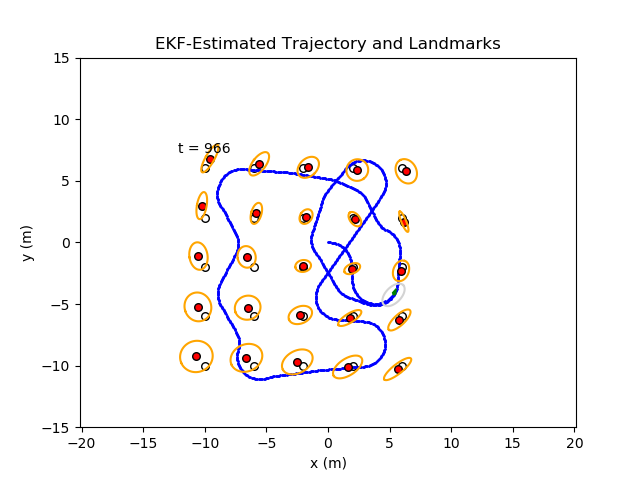
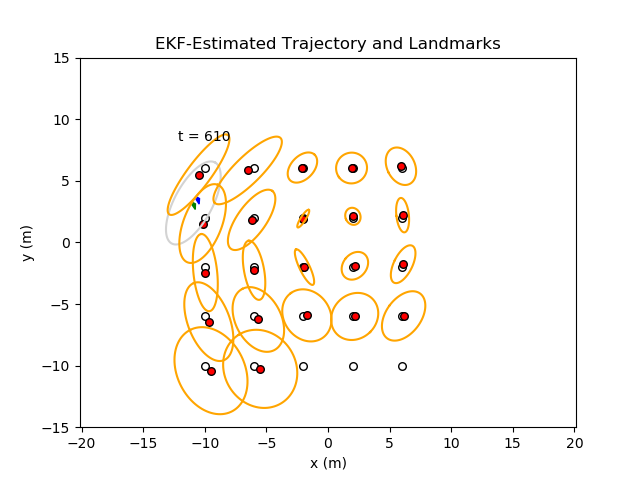
Add timestep to EKFState and new PFState messages. Can now show accurate true current veh pose on plots.

Changed region(s): [[0.25, 0.25, 0.6875, 0.875], [0.4062, 0.8438, 0.4375, 0.875], [0.2812, 0.8125, 0.3125, 0.8438]]

diff --git a/ekf_ws/src/data_pkg/src/plotting_node.py b/ekf_ws/src/data_pkg/src/plotting_node.py
@@ -5,6 +5,7 @@ import rospy
 import rospkg
 from std_msgs.msg import Float32MultiArray
 from ekf_pkg.msg import EKFState
+from pf_pkg.msg import PFState
 from matplotlib import pyplot as plt
 import numpy as np
 import atexit
@@ -17,18 +18,10 @@ def eigsorted(cov):
 
 ############ GLOBAL VARIABLES ###################
 params = {}
-# state data from the EKF to use for plotting.
-# position/hdg for all times.
-veh_x = []; veh_y = []; veh_th = []
-# current estimate for all landmark positions.
-lm_x = []; lm_y = []
-# ground truth veh pose.
+# store all plots objects we want to be able to remove later.
+plots = {"lm_cov_est" : {}}
+# ground truth.
 true_traj = None; true_map = None
-timestep_num = 1; time_text = None; time_text_position = None
-lm_pts = None; veh_pts = None; ell_pts = None; veh_true = None
-lm_cov = {}
-# set of PF particle plots.
-particle_plots = None; true_pt = None
 # output filename prefix.
 fname = ""
 #################################################
@@ -88,99 +81,92 @@ def cov_to_ellipse(P_v):
 
 def update_plot(filter:str, msg):
     # draw everything for this timestep.
-    global veh_x, veh_y, veh_th, lm_x, lm_y, lm_pts, veh_pts, ell_pts, veh_true, true_map, true_traj, timestep_num, time_text, time_text_position, lm_cov, particle_plots, true_pt
+    global plots, pos_time_display, true_map, true_traj
     
     #################### TRUE MAP #######################
     if true_map is not None:
         plt.scatter(true_map[0], true_map[1], s=30, color="white", edgecolors="black")
         # make sure the time text will be on screen but not blocking a lm.
-        time_text_position = (min(true_map[0]), max(true_map[1])+2)
+        pos_time_display = (min(true_map[0]), max(true_map[1])+2)
         # this should only run once to avoid wasting time.
         true_map = None
 
     ################ TRUE TRAJECTORY #####################
     if params["SHOW_TRUE_TRAJ"] and true_traj is not None:
-        plt.scatter(true_traj[0::3], true_traj[1::3], s=1, color="blue")
-        # for timestep in range(0,len(true_traj)//3):
-        #     plt.arrow(true_traj[timestep*3], true_traj[timestep*3+1], params["ARROW_LEN"]*cos(true_traj[timestep*3+2]), params["ARROW_LEN"]*sin(true_traj[timestep*3+2]), color="blue", width=0.01)
-        true_traj = None
+        # plot entire trajectory at the beginning.
+        # plt.scatter(true_traj[0::3], true_traj[1::3], s=1, color="blue")
+        # true_traj = None
+
+        # plot only the current veh pos.
+        if "veh_pos_true" in plots.keys():
+            plots["veh_pos_true"].remove()
+        plots["veh_pos_true"] = plt.arrow(true_traj[msg.timestep*3], true_traj[msg.timestep*3+1], params["ARROW_LEN"]*cos(true_traj[msg.timestep*3+2]), params["ARROW_LEN"]*sin(true_traj[msg.timestep*3+2]), color="blue", width=0.1)
+
+    ###################### TIMESTEP #####################
+    if "timestep" in plots.keys():
+        plots["timestep"].remove()
+    if pos_time_display is not None:
+        plots["timestep"] = plt.text(pos_time_display[0], pos_time_display[1], 't = '+str(msg.timestep), horizontalalignment='center', verticalalignment='bottom')
 
     ####################### EKF SLAM #########################
     if filter == "ekf":
         ################ VEH POS #################
         # plot current EKF-estimated veh pos.
-        if not params["SHOW_ENTIRE_TRAJ"] and veh_pts is not None:
-            veh_pts.remove()
+        if not params["SHOW_ENTIRE_TRAJ"] and "veh_pos_est" in plots.keys():
+            plots["veh_pos_est"].remove()
         # draw a single pt with arrow to represent current veh pose.
-        veh_pts = plt.arrow(msg.x_v, msg.y_v, params["ARROW_LEN"]*cos(msg.yaw_v), params["ARROW_LEN"]*sin(msg.yaw_v), color="green", width=0.1)
+        plots["veh_pos_est"] = plt.arrow(msg.x_v, msg.y_v, params["ARROW_LEN"]*cos(msg.yaw_v), params["ARROW_LEN"]*sin(msg.yaw_v), color="green", width=0.1)
 
         ################ VEH COV ##################
         n = int(len(msg.P)**(1/2)) # length of state n = 3+2M
         # compute parametric ellipse for veh covariance.
-        ell_rot = cov_to_ellipse(np.array([[msg.P[0],msg.P[1]], [msg.P[n],msg.P[n+1]]]))
+        veh_ell = cov_to_ellipse(np.array([[msg.P[0],msg.P[1]], [msg.P[n],msg.P[n+1]]]))
         # remove old ellipses.
-        if not params["SHOW_ENTIRE_TRAJ"] and ell_pts is not None:
-            ell_pts.remove()
+        if not params["SHOW_ENTIRE_TRAJ"] and "veh_cov_est" in plots.keys():
+            plots["veh_cov_est"].remove()
         # plot the ellipse.
-        ell_pts, = plt.plot(msg.x_v+ell_rot[0,:] , msg.y_v+ell_rot[1,:],'lightgrey')
+        plots["veh_cov_est"], = plt.plot(msg.x_v+veh_ell[0,:] , msg.y_v+veh_ell[1,:],'lightgrey')
 
         ############## LANDMARK EST ##################
         if n > 3:
             lm_x = [msg.landmarks[i] for i in range(1,len(msg.landmarks),3)]
             lm_y = [msg.landmarks[i] for i in range(2,len(msg.landmarks),3)]
         # remove old landmark estimates.
-        if lm_pts is not None:
-            lm_pts.remove()
+        if "lm_pos_est" in plots.keys():
+            plots["lm_pos_est"].remove()
         # plot new landmark estimates.
-        lm_pts = plt.scatter(lm_x, lm_y, s=30, color="red", edgecolors="black")
+        plots["lm_pos_est"] = plt.scatter(lm_x, lm_y, s=30, color="red", edgecolors="black")
 
         ############## LANDMARK COV ###################
         # plot new landmark covariances.
         for i in range(len(msg.landmarks) // 3):
             # replace previous if it's been plotted before.
             lm_id = msg.landmarks[i*3] 
-            if lm_id in lm_cov.keys() and lm_cov[lm_id] is not None:
-                lm_cov[lm_id].remove()
-                lm_cov[lm_id] = None
+            if lm_id in plots["lm_cov_est"].keys():
+                plots["lm_cov_est"][lm_id].remove()
             # extract 2x2 cov for this landmark.
             lm_ell = cov_to_ellipse(np.array([[msg.P[3+2*i],msg.P[4+2*i]],[msg.P[n+3+2*i],msg.P[n+4+2*i]]]))
             # plot its ellipse.
-            lm_cov[lm_id], = plt.plot(lm_x[i]+lm_ell[0,:] , lm_y[i]+lm_ell[1,:],'orange')
+            plots["lm_cov_est"][lm_id], = plt.plot(lm_x[i]+lm_ell[0,:] , lm_y[i]+lm_ell[1,:],'orange')
 
     ############## PARTICLE FILTER LOCALIZATION #####################
     elif filter == "pf":
         ########## PARTICLE SET ###############
         if params["PLOT_PARTICLE_ARROWS"]:
-            # plot as arrows.
-            if particle_plots is not None and len(particle_plots) > 0:
-                for i in range(len(particle_plots)):
-                    particle_plots[i].remove()
-            particle_plots = []
+            # plot as arrows (slow).
+            if "particle_set" in plots.keys() and len(plots["particle_set"].keys()) > 0:
+                for i in plots["particle_set"].keys():
+                    plots["particle_set"][i].remove()
+            plots["particle_set"] = {}
             # draw a pt with arrow for all particles.
-            for i in range(len(msg.data) // 3):
-                pp = plt.arrow(msg.data[i*3], msg.data[i*3+1], params["ARROW_LEN"]*cos(msg.data[i*3+2]), params["ARROW_LEN"]*sin(msg.data[i*3+2]), color="red", width=0.1)
-                particle_plots.append(pp)
+            for i in range(len(msg.x)):
+                plots["particle_set"][i] = plt.arrow(msg.x[i], msg.y[i], params["ARROW_LEN"]*cos(msg.yaw[i]), params["ARROW_LEN"]*sin(msg.yaw[i]), color="red", width=0.1)
         else:
             # plot as points (faster).
-            if particle_plots is not None:
-                particle_plots.remove()
+            if "particle_set" in plots.keys():
+                plots["particle_set"].remove()
             # draw entire particle set at once.
-            particle_plots = plt.scatter([msg.data[i] for i in range(0,len(msg.data),3)], [msg.data[i] for i in range(1,len(msg.data),3)], s=12, color="red")
-
-        ########## TRUE VEH POSE ###########
-        if params["SHOW_TRUE_TRAJ"] and true_traj is not None:
-            # remove previous.
-            if true_pt is not None:
-                true_pt.remove()
-            # draw current.
-            true_pt = plt.arrow(true_traj[timestep_num*3], true_traj[timestep_num*3+1], params["ARROW_LEN"]*cos(true_traj[timestep_num*3+2]), params["ARROW_LEN"]*sin(true_traj[timestep_num*3+2]), color="blue", width=0.1)
-
-    # show the timestep on the plot.
-    if time_text is not None:
-        time_text.remove()
-    if time_text_position is not None:
-        time_text = plt.text(time_text_position[0], time_text_position[1], 't = '+str(timestep_num), horizontalalignment='center', verticalalignment='bottom')
-    timestep_num += 1
+            plots["particle_set"] = plt.scatter([msg.x[i] for i in range(len(msg.x))], [msg.y[i] for i in range(len(msg.y))], s=8, color="red")
 
     # do the plotting.
     plt.axis("equal")
@@ -243,7 +229,7 @@ def main():
 
     # subscribe to the current state.
     rospy.Subscriber("/state/ekf", EKFState, get_ekf_state, queue_size=1)
-    rospy.Subscriber("/state/pf", Float32MultiArray, get_pf_state, queue_size=1)
+    rospy.Subscriber("/state/pf", PFState, get_pf_state, queue_size=1)
 
     # subscribe to ground truth.
     rospy.Subscriber("/truth/veh_pose",Float32MultiArray, get_true_traj, queue_size=1)

diff --git a/ekf_ws/src/pf_pkg/src/pf.py b/ekf_ws/src/pf_pkg/src/pf.py
@@ -9,7 +9,7 @@ import numpy as np
 from random import random, choices
 from math import sin, cos, remainder, tau, atan2, pi, log, exp
 from scipy.stats import multivariate_normal, norm, uniform
-
+from pf_pkg.msg import PFState
 
 class PF:
     ##### CONFIG VALUES #####
@@ -29,6 +29,7 @@ class PF:
             -> Randomly select locations in the world.
             -> Assign particles to those locations along with a random orientation value in (-pi, pi).
         """
+        self.timestep = 0
         self.NUM_PARTICLES = num_particles
         self.DT = DT
         self.MAP = map
@@ -47,6 +48,8 @@ class PF:
         """
         Perform one iteration of MCL.
         """
+        # update timestep.
+        self.timestep += 1
         # propagate particles forward one timestep.
         self.sample_motion_model(u)
         # skip update step if no landmarks were detected.
@@ -130,11 +133,14 @@ class PF:
         return r, b
 
 
-    def get_particle_set(self):
+    def get_state(self):
         """
-        Return the current set of particles as a 1x3N list.
+        Return the current set of particles as a PFState msg.
         """
-        pset = []
-        for i in range(self.NUM_PARTICLES):
-            pset += [self.x_t[0,i], self.x_t[1,i], self.x_t[2,i]]
-        return pset
+        msg = PFState()
+        msg.timestep = self.timestep
+        msg.x = [self.x_t[0,i] for i in range(self.NUM_PARTICLES)]
+        msg.y = [self.x_t[1,i] for i in range(self.NUM_PARTICLES)]
+        msg.yaw = [self.x_t[2,i] for i in range(self.NUM_PARTICLES)]
+        # TODO look into publishing weights as well.
+        return msg

diff --git a/ekf_ws/src/ekf_pkg/src/ekf_node.py b/ekf_ws/src/ekf_pkg/src/ekf_node.py
@@ -27,7 +27,6 @@ x0 = np.array([[0.0],[0.0],[0.0]])
 P0 = np.array([[0.01**2,0.0,0.0],[0.0,0.01**2,0.0],[0.0,0.0,0.005**2]])
 # Most recent odom reading and landmark measurements.
 odom_queue = []; lm_meas_queue = []
-# odom = [dist, heading], lm_meas = [id, range, bearing, ...]
 # Current state mean and covariance.
 x_t = x0; P_t = P0
 # IDs of seen landmarks. Order corresponds to ind in state.
@@ -174,6 +173,7 @@ def ekf_iteration(event):
 # create EKFState message and publish it.
 def send_state():
     msg = EKFState()
+    msg.timestep = timestep
     msg.x_v = x_t[0,0]
     msg.y_v = x_t[1,0]
     msg.yaw_v = x_t[2,0]
@@ -191,11 +191,12 @@ def send_state():
 # get measurement of odometry info.
 def get_odom(msg):
     global odom_queue
+    # format: x = distance, y = heading.
     odom_queue.append([msg.x, msg.y])
 
 # get measurement of landmarks.
 def get_landmarks(msg):
-    # format: [id1,r1,b1,...idN,rN,bN]
+    # format: [id1,range1,bearing1,...idN,rN,bN]
     global lm_meas_queue
     lm_meas_queue.append(msg.data)
 

diff --git a/ekf_ws/src/pf_pkg/src/pf_node.py b/ekf_ws/src/pf_pkg/src/pf_node.py
@@ -10,6 +10,7 @@ import rospkg
 from pf import PF
 from std_msgs.msg import Float32MultiArray
 from geometry_msgs.msg import Vector3
+from pf_pkg.msg import PFState
 import sys
 
 ############ GLOBAL VARIABLES ###################
@@ -63,9 +64,7 @@ def mcl_iteration(event):
     pf.iterate(odom, z)
 
     # publish the particle set for plotting.
-    msg = Float32MultiArray()
-    msg.data = pf.get_particle_set()
-    set_pub.publish(msg)
+    set_pub.publish(pf.get_state())
 
 
 # Getters
@@ -111,7 +110,7 @@ def main():
     rospy.Subscriber("/truth/landmarks",Float32MultiArray, get_true_map, queue_size=1)
 
     # create publisher for the current state.
-    set_pub = rospy.Publisher("/state/pf", Float32MultiArray, queue_size=1)
+    set_pub = rospy.Publisher("/state/pf", PFState, queue_size=1)
 
     rospy.Timer(rospy.Duration(params["DT"]), mcl_iteration)
     rospy.spin()

diff --git a/ekf_ws/src/ekf_pkg/src/ekf.cpp b/ekf_ws/src/ekf_pkg/src/ekf.cpp
@@ -28,6 +28,9 @@ EKF::EKF() {
 
 // perform a full iteration of the EKF for this timestep.
 void EKF::update(geometry_msgs::Vector3::ConstPtr odomMsg, std_msgs::Float32MultiArray::ConstPtr lmMeasMsg) {
+    // update timestep.
+    this->timestep += 1;
+
     ////////////// PREDICTION STAGE /////////////////
     // extract odom.
     float d_d = odomMsg->x;
@@ -154,6 +157,8 @@ void EKF::update(geometry_msgs::Vector3::ConstPtr odomMsg, std_msgs::Float32Mult
 // return the state as a message.
 ekf_pkg::EKFState EKF::getState() {
     ekf_pkg::EKFState stateMsg;
+    // timestep.
+    stateMsg.timestep = this->timestep;
     // vehicle pose.
     stateMsg.x_v = this->x_t(0);
     stateMsg.y_v = this->x_t(1);

diff --git a/ekf_ws/src/ekf_pkg/include/ekf_pkg/ekf.h b/ekf_ws/src/ekf_pkg/include/ekf_pkg/ekf.h
@@ -13,6 +13,8 @@
 
 class EKF {
     public:
+    // current timestep.
+    int timestep = 0;
     // state distribution.
     Eigen::VectorXd x_t;
     Eigen::MatrixXd P_t;
